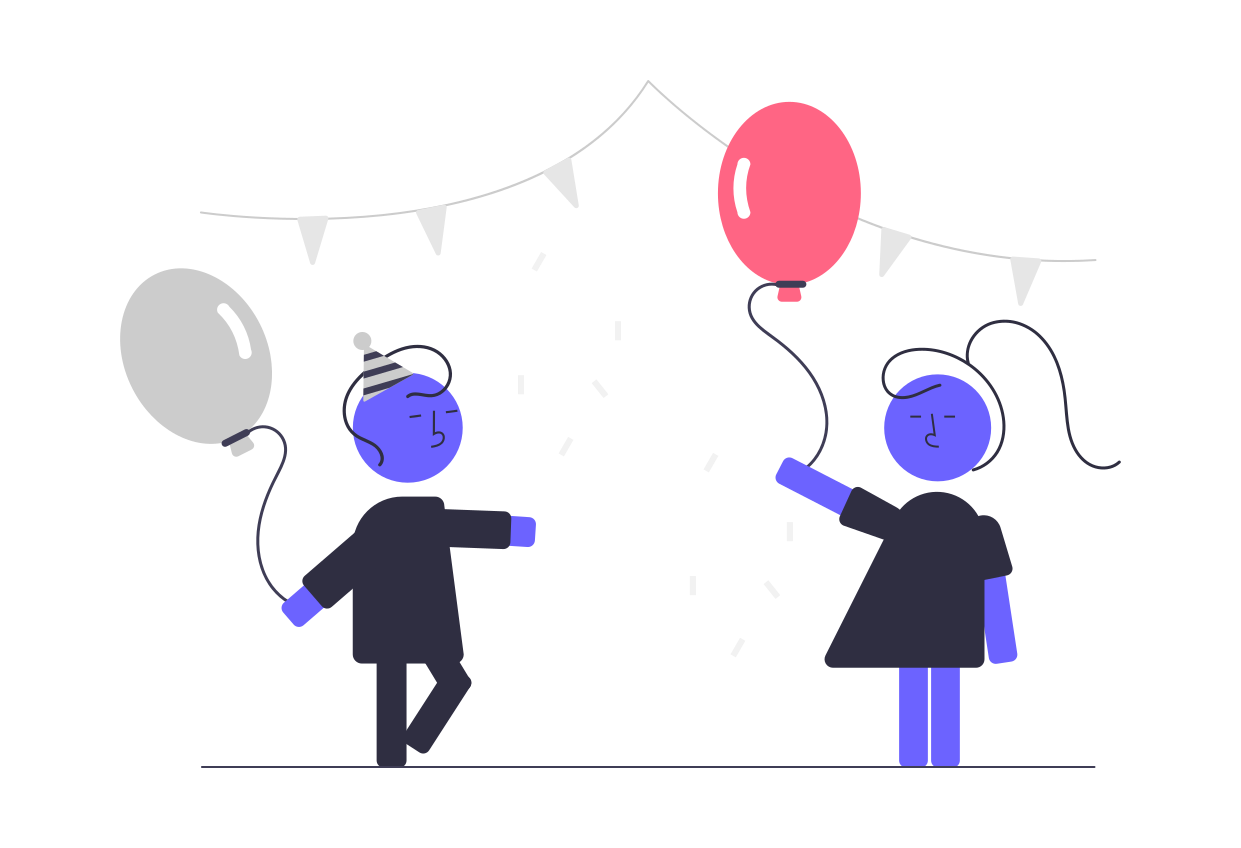
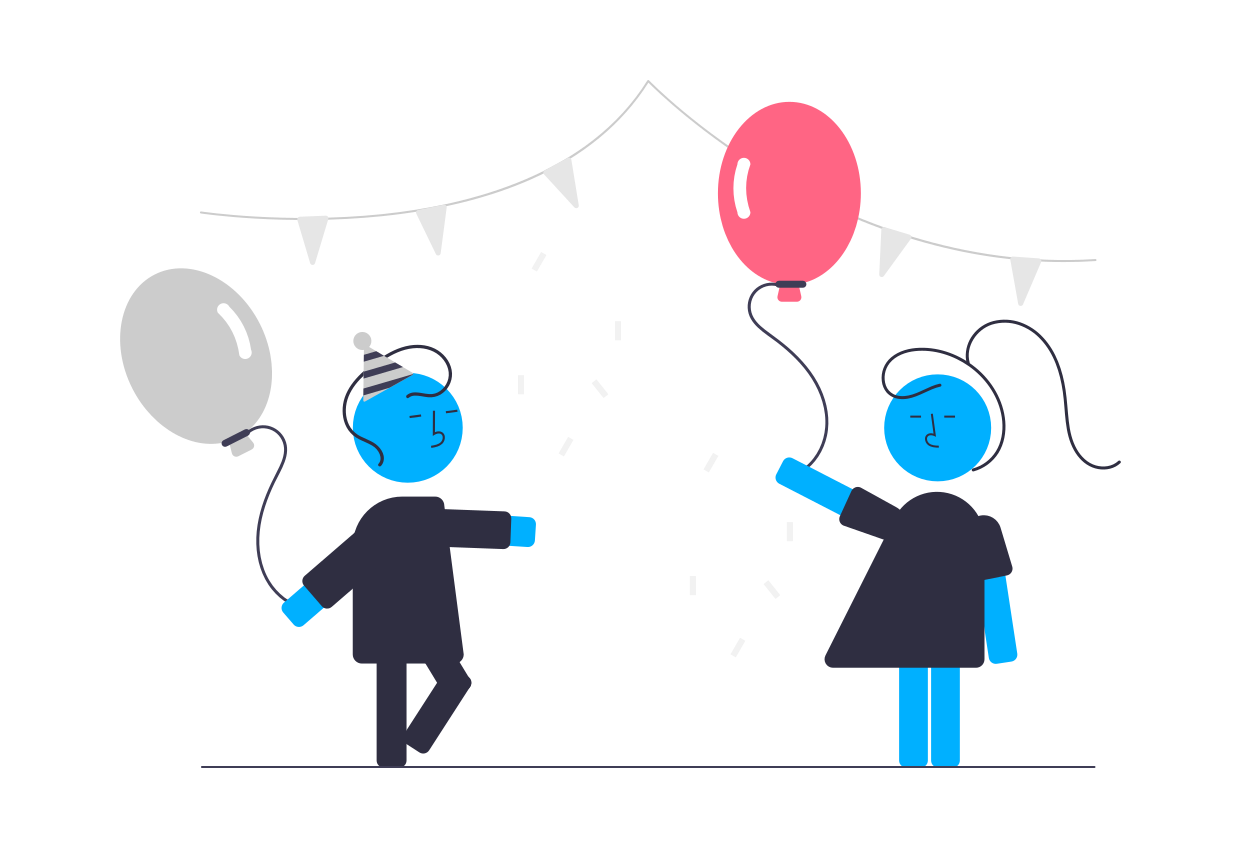
fix: article date and image style (#20)

diff --git a/content/posts/6-how-much.md b/content/posts/6-how-much.md
@@ -1,6 +1,6 @@
 ---
 title: "How to ask \"How much\" or \"How many\" in Vietnamese"
-date: 2022-11-20T00:00:00+00:00
+date: 2022-11-26T00:00:00+00:00
 categories: [a1]
 ---
 
